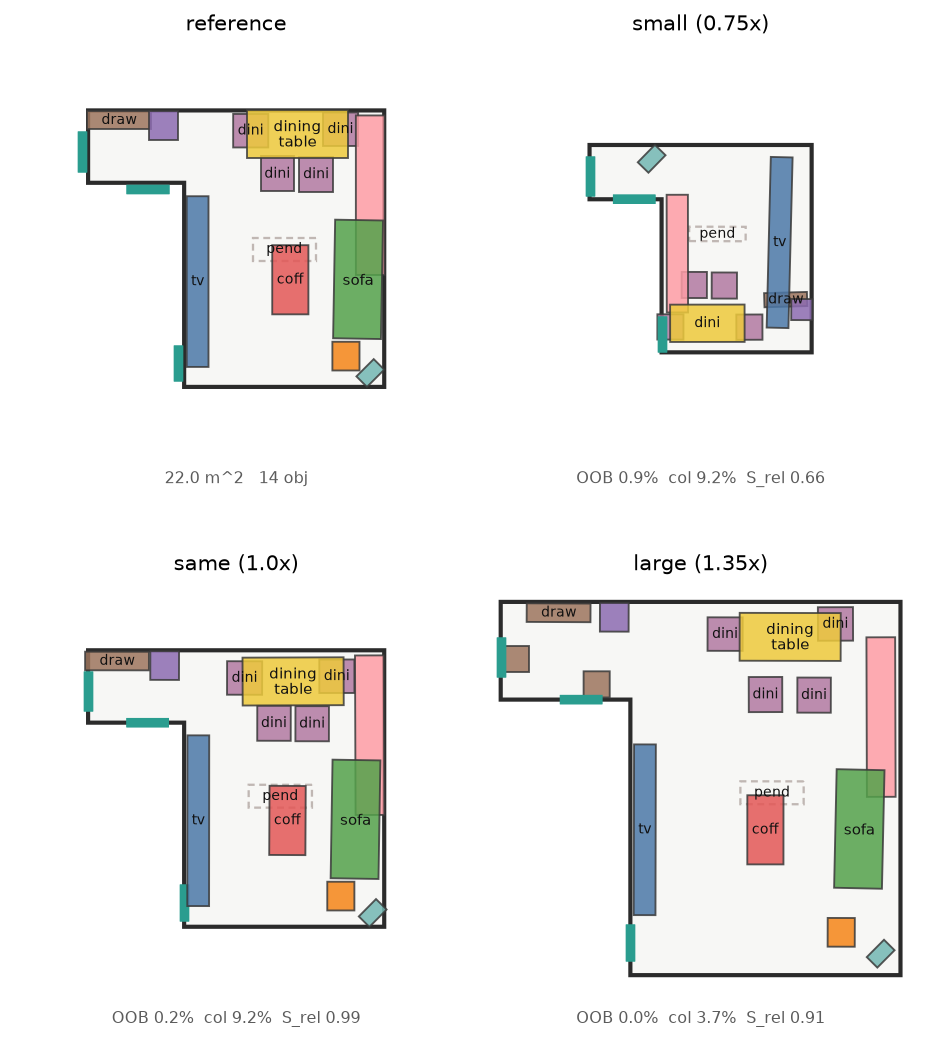
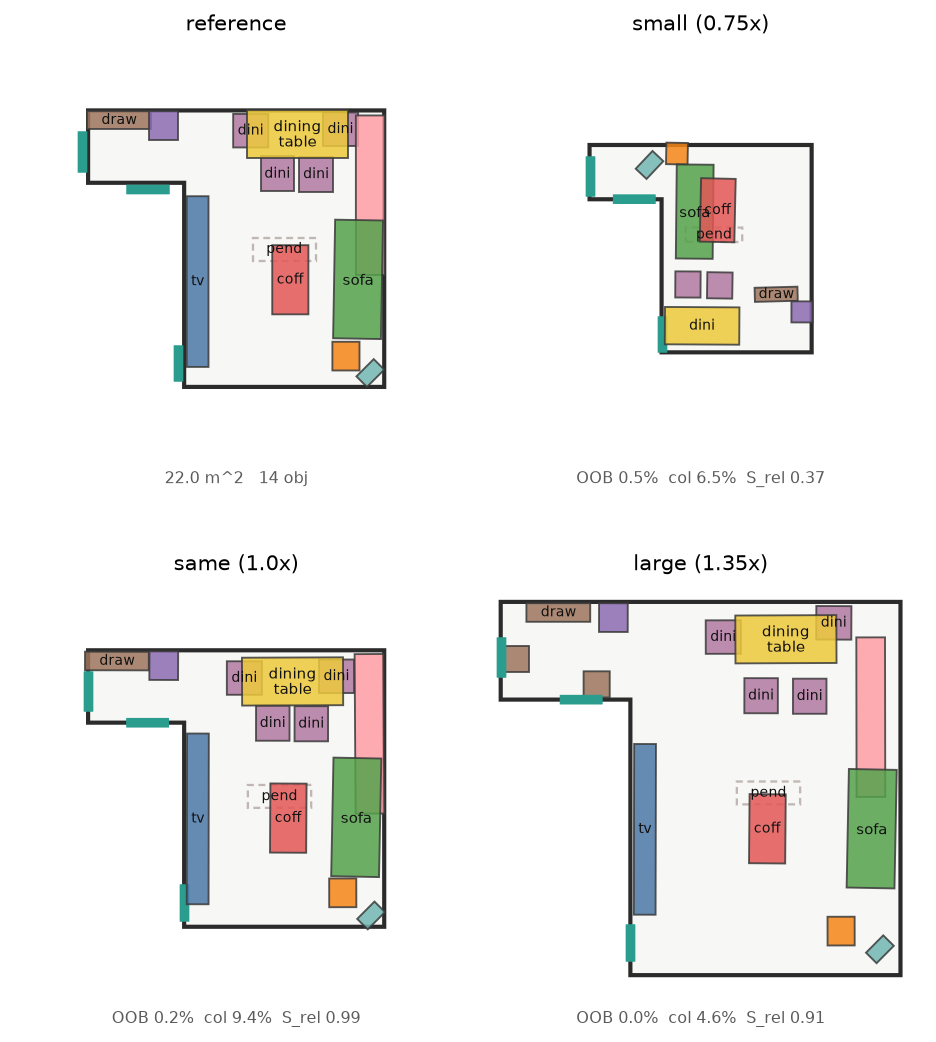
Phase 1 ship: anchor category protection in Summarise
Adds ANCHOR_CATEGORIES table to reroom/retarget/summarize.py so that
each room type's semantic anchor (sofa for living_room, bed for
bedroom, etc.) is never dropped during summarization -- shrunk rooms
now keep the couch and the substitution stage is responsible for
swapping in a smaller variant if needed.

6-scene bench (vs previous Plan A shipped):
  0.75x N objs kept 15 -> 16 (sofa recovered)
  0.75x col%       2.6 -> 2.0  (-23%)
  1.00x mean       12.0 -> 11.4 (-5%)
  1.35x S_rel      0.87 -> 0.88 (motif preservation up)
  Mean float ticks up because the newly-kept sofa is often placed
  far from wall (goes into the mean's denominator).  Semantic
  correctness is the bigger win here.

Site updated: pipeline step 2 mentions anchor protection, 6-scene
table replaced with post-anchor numbers + a small explanatory note,
output image replaced with the anchor-protected variant.

diff --git a/index.html b/index.html
@@ -58,7 +58,7 @@
 
 <ol>
   <li><strong>意圖抽取</strong>:參考房影像 → MIDI-3D → 場景 + 物件圖 → 加上關係彈性 α<sub>ij</sub>(神經 MLP 學出來)</li>
-  <li><strong>Summarise & Substitution(§9 § 11)</strong>:房間變小先刪 motif,再從 asset bank 換成塞得下的較小家具(在 flow 之前,避免硬塞被 collision 推散)</li>
+  <li><strong>Summarise & Substitution(§9 § 11)</strong>:房間變小先刪 motif,再從 asset bank 換成塞得下的較小家具(在 flow 之前,避免硬塞被 collision 推散)。<em>Anchor 保護</em>:每個房間類型的核心家具(客廳 sofa、臥室 bed 等)永遠不刪 &mdash; 若塞不下就交給 substitution 換小版本</li>
   <li><strong>Flow Transformer(§13 前半)</strong>:DiT 33 M 參數,意圖圖 + α 進 attention bias,ODE 50 步生成 k=16 個候選佈局。<em>In-sampling guidance</em>:每步都算 E<sub>bound</sub> + E<sub>col</sub> + E<sub>clear</sub> + wall_pull 的可行性梯度,融進 ODE trajectory</li>
   <li><strong>Polish(§13 eq (37) 後半)</strong>:每個候選跑 25 步 Adam,對 § 8 六個能量做梯度下降,freeze_yaw(朝向由 flow 決定),疊四個機制:
     <ul>
@@ -83,11 +83,12 @@
 <table>
 <thead><tr><th>Size</th><th>mean float</th><th>max float</th><th>OOB %</th><th>col %</th><th>S<sub>rel</sub></th></tr></thead>
 <tbody>
-<tr><td>0.75× 縮小</td><td class="win">6.5 cm</td><td>24.6 cm</td><td>2.1 %</td><td>2.6 %</td><td>0.42</td></tr>
-<tr><td>1.00× 原尺寸</td><td class="win">12.0 cm</td><td>55.9 cm</td><td>0.9 %</td><td>4.8 %</td><td>0.93</td></tr>
-<tr><td>1.35× 放大</td><td>22.2 cm</td><td>102.5 cm</td><td class="win">0.8 %</td><td>2.3 %</td><td>0.87</td></tr>
+<tr><td>0.75× 縮小</td><td>8.2 cm</td><td>40.9 cm</td><td>2.8 %</td><td class="win">2.0 %</td><td>0.41</td></tr>
+<tr><td>1.00× 原尺寸</td><td class="win">11.4 cm</td><td>54.5 cm</td><td>1.7 %</td><td>4.0 %</td><td>0.92</td></tr>
+<tr><td>1.35× 放大</td><td>25.2 cm</td><td>100.0 cm</td><td>1.6 %</td><td>2.2 %</td><td class="win">0.88</td></tr>
 </tbody>
 </table>
+<p style="font-size:14.5px;color:var(--mut);margin:-6px 0 14px">Mean float 略高於單純 Anisotropic + Polish 版本,是因為 <strong>anchor 保護</strong>(客廳的 sofa、臥室的 bed 不會被 summarise 刪除)保留了原本會被丟掉的物件 &mdash; 輸出更完整(sofa 進了 mean 分母),但 S<sub>rel</sub>(motif 保存度)反而 <em>更高</em>(1.35× 0.87 → 0.88)。</p>
 
 <h2>算法細節(公式與變量)</h2>
 
